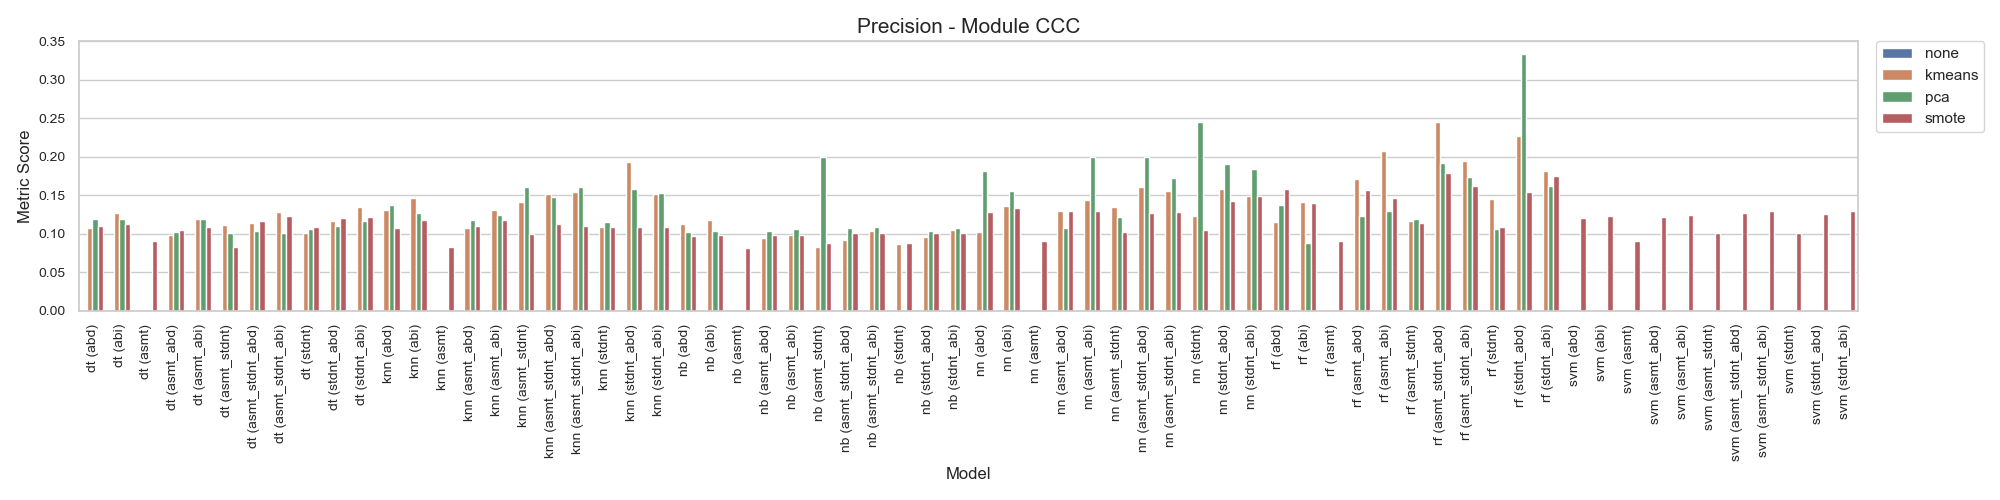
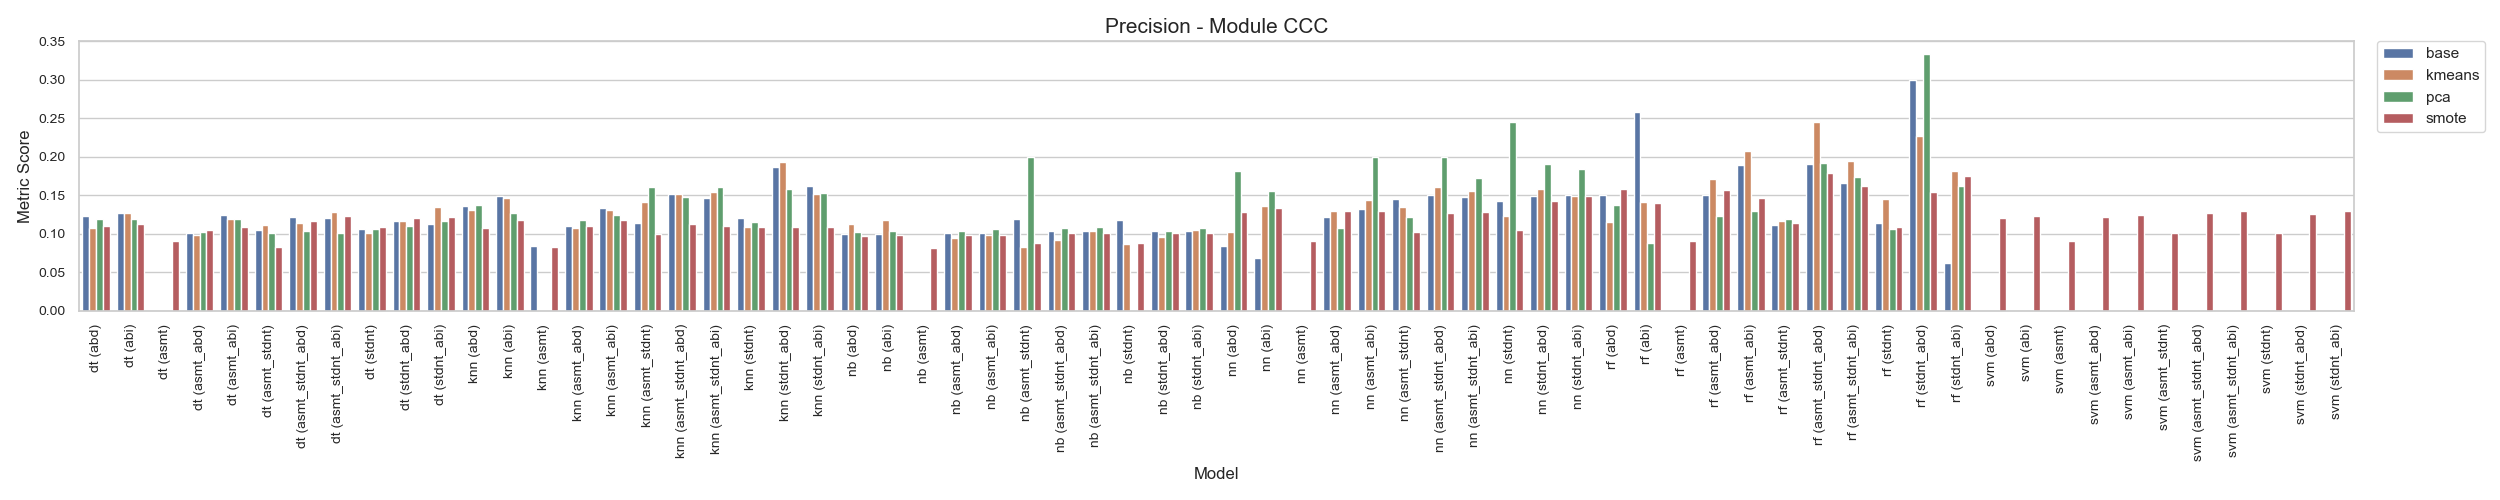
Chart

diff --git a/nu_viz_all.py b/nu_viz_all.py
@@ -13,7 +13,7 @@ modules = ['aaa', 'bbb', 'ccc', 'ddd', 'eee', 'fff', 'ggg']
 if not os.path.exists('./nu_charts'):
     os.mkdir('./nu_charts')
 
-scale = (20, 5)
+scale = (25, 5)
 
 for mod in modules:
 
@@ -50,7 +50,7 @@ for mod in modules:
         sns.set(style='whitegrid')
         _, ax = plt.subplots(figsize=scale)
 
-        mod_plot = sns.barplot(ax=ax, x='id', y='score', hue='technique', hue_order=['none', 'kmeans', 'pca', 'smote'], data=met_df)
+        mod_plot = sns.barplot(ax=ax, x='id', y='score', hue='technique', hue_order=['base', 'kmeans', 'pca', 'smote'], data=met_df)
         mod_plot.set_title(f"{metric} - Module {mod.upper()}", fontsize=15)
 
         plt.xticks(rotation=90)
